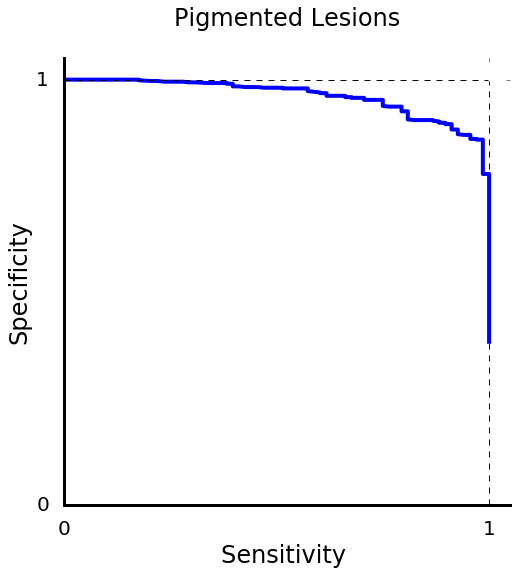
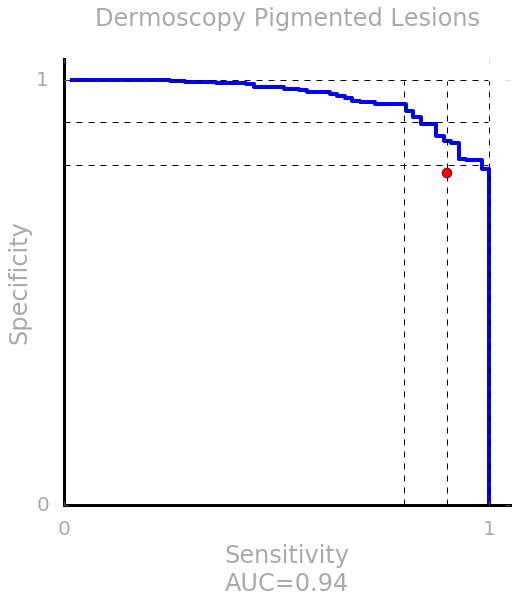
adjusting isbi curve to one without the 27 images from prenet validation overlapping net validation

diff --git a/index.html b/index.html
@@ -30,10 +30,9 @@
 	<li>Train = 0.8, Val = 0.2</li>
 	<li> Average over the plateaud validation set: <br>
 		<ul>
-			<li>AUC: 0.96</li>
+			<li>AUC: 0.94</li>
 			<li>Sensitivity: 0.98</li>
-			<li>Specificity: 0.86</li>
-			<li>Average Precision Score: 0.73</li>
+			<li>Specificity: 0.81</li>
 		</ul>
 	</li>
 	<li>
